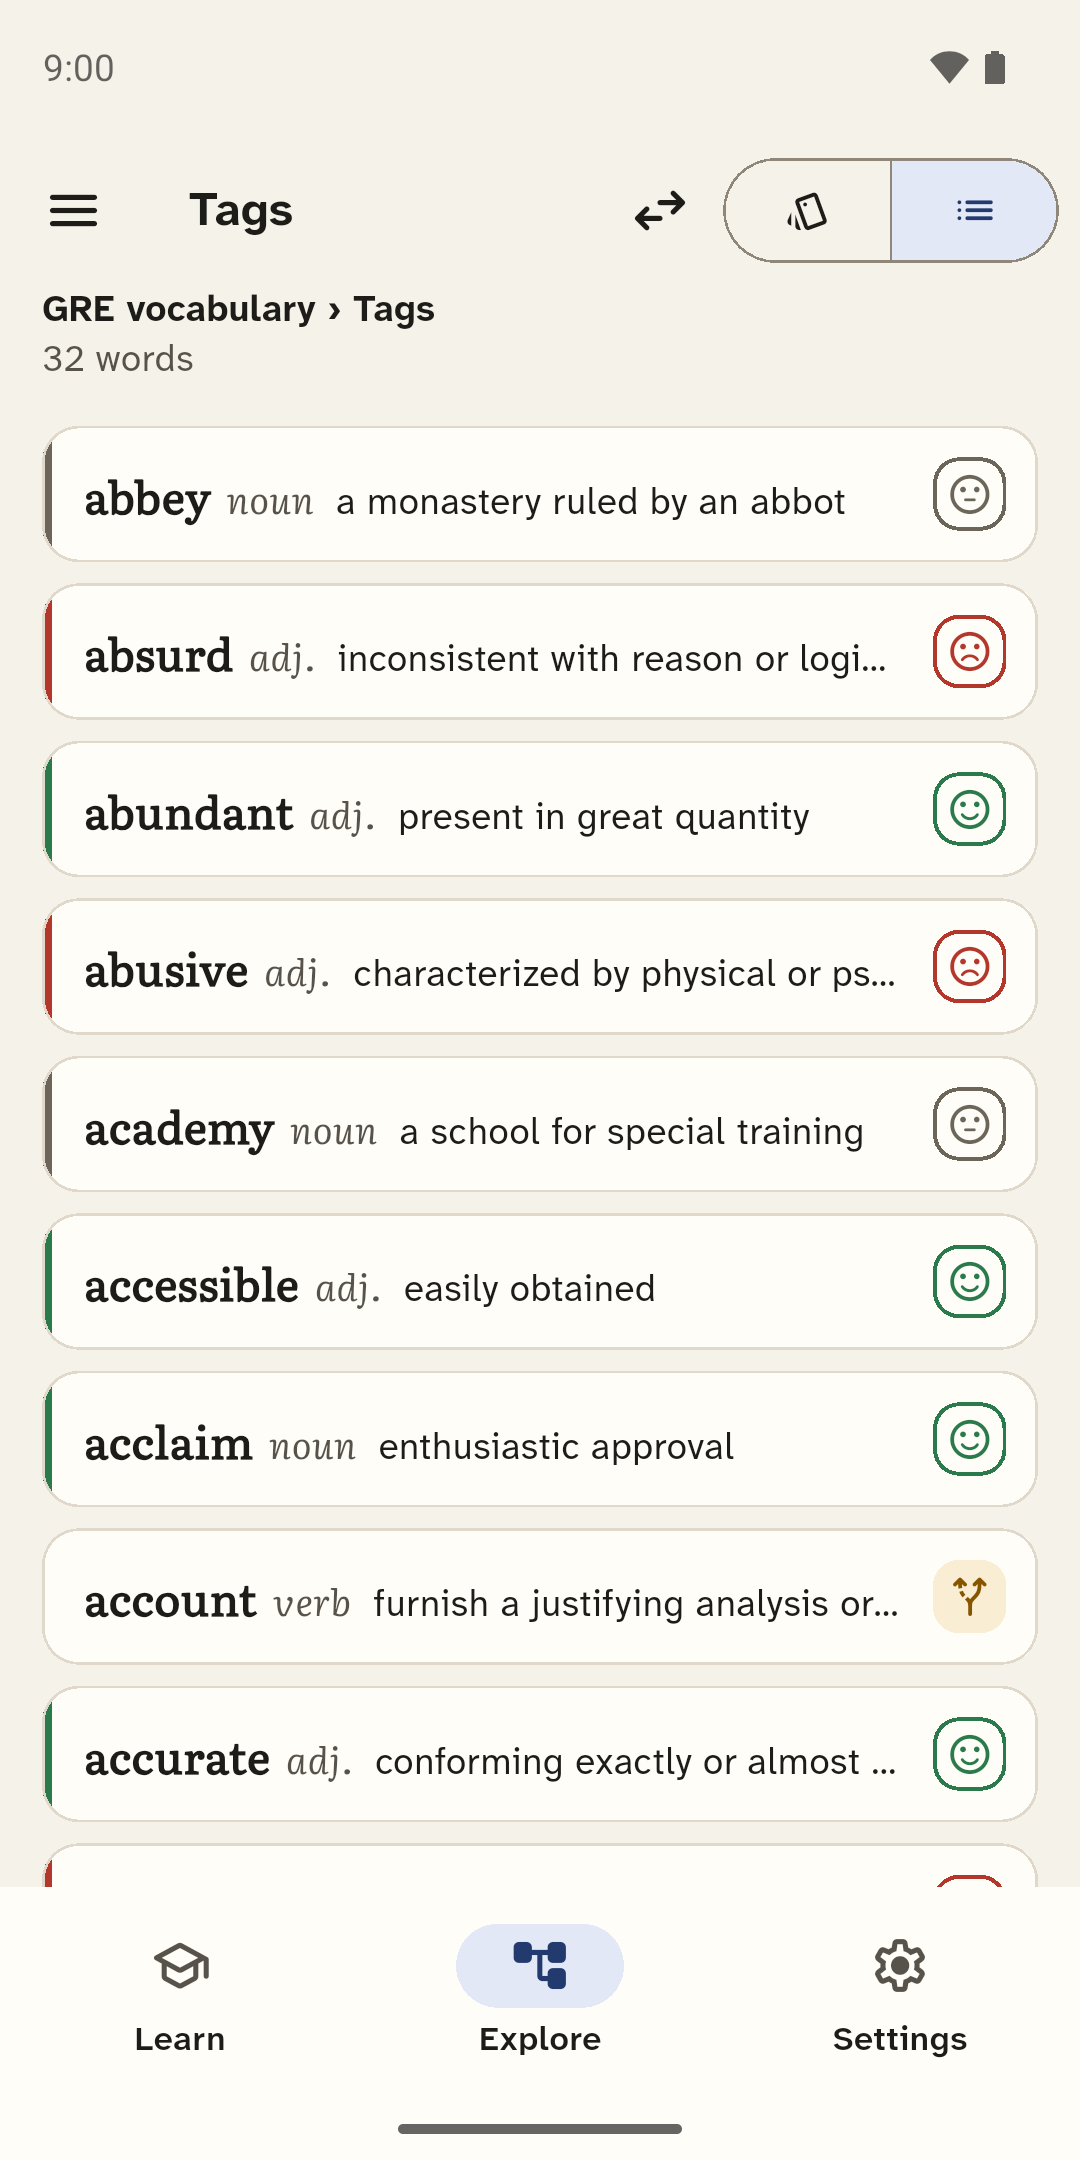
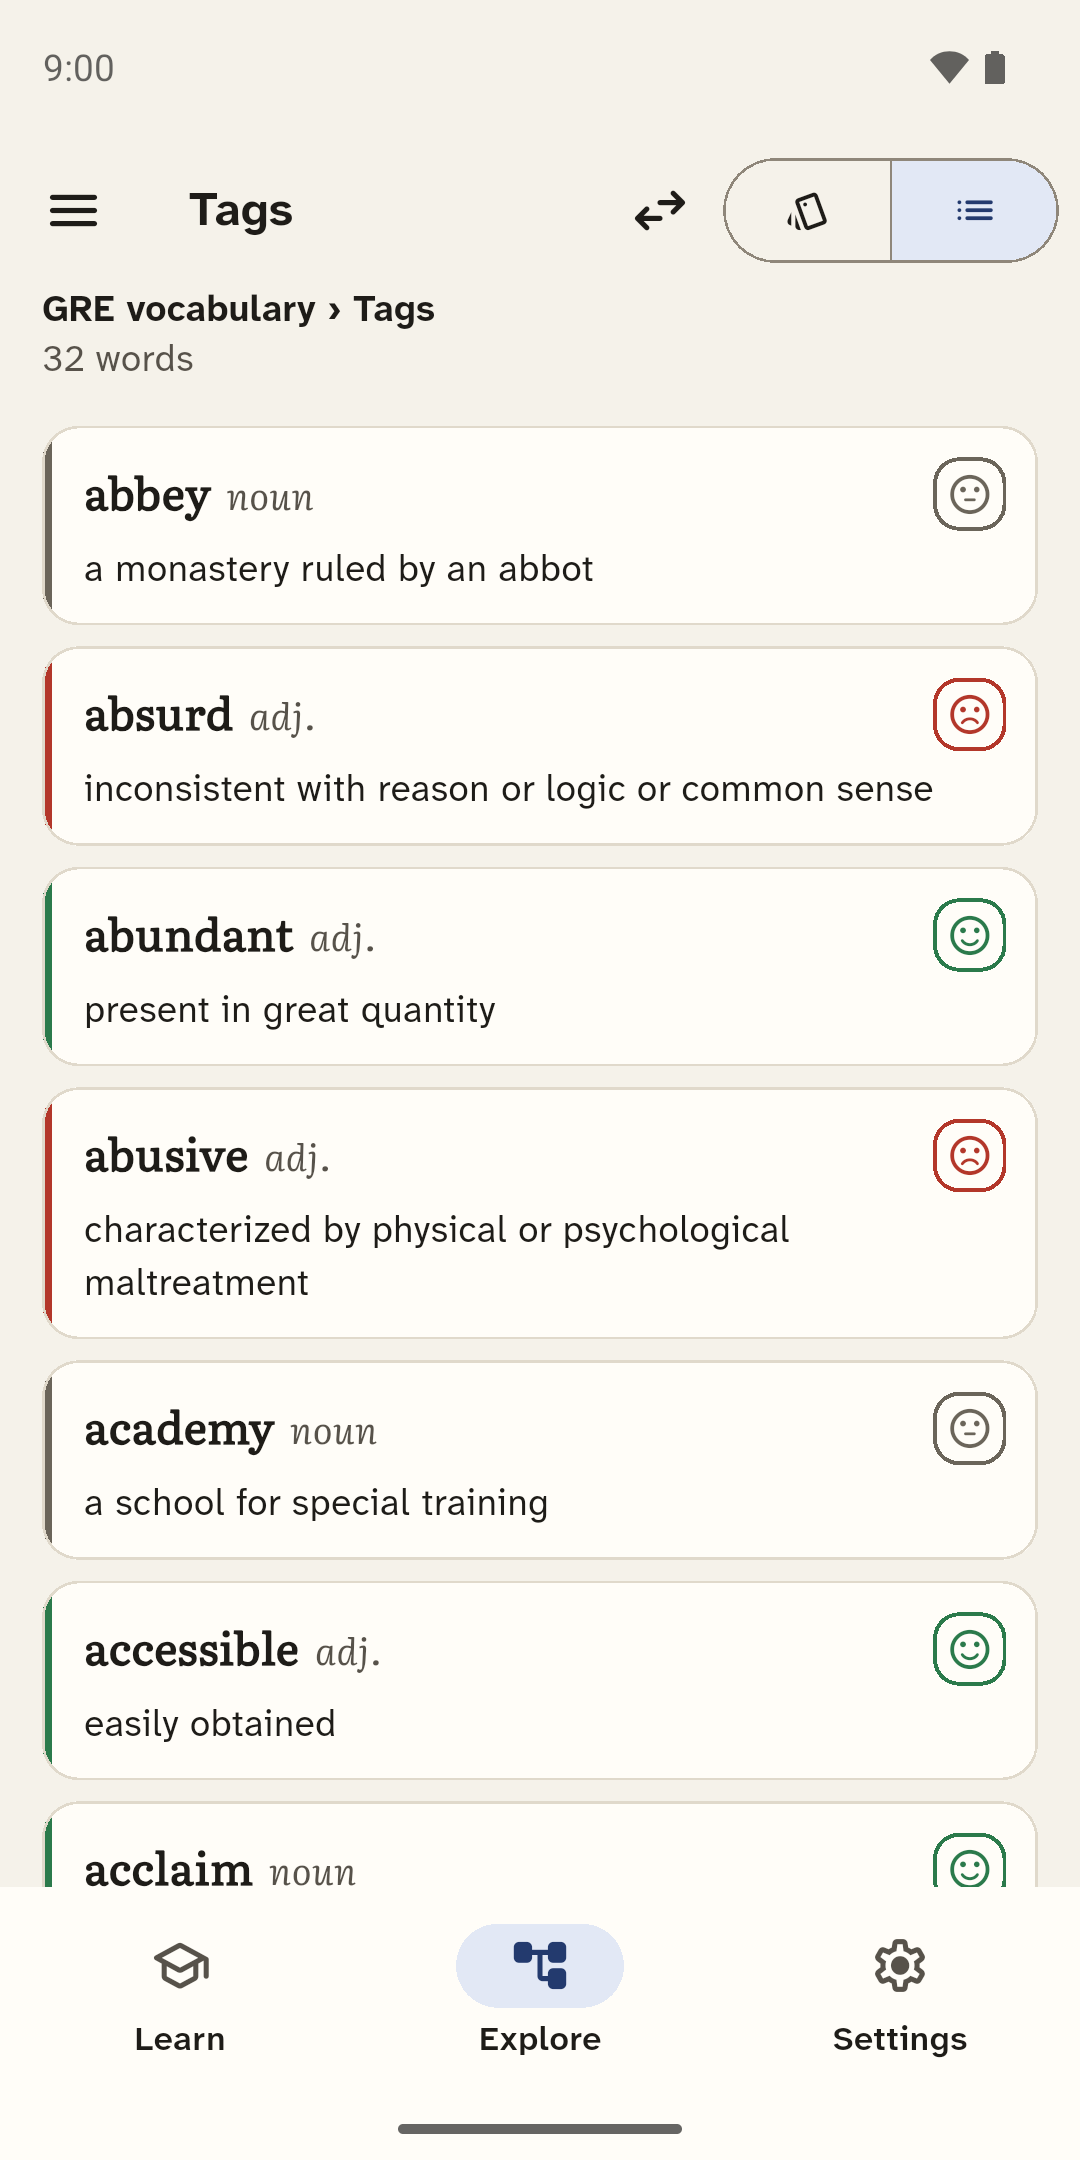
Explorer list: show the whole definition under the word (D-33)
List rows put term, part of speech and badges on the first line and the
full definition below it, wrapped at full width; rows grow to fit and are
one screen-reader item. Test D-33 covers it; store screenshot 5 retaken.

Changed region(s): [[0.0306, 0.2171, 0.9778, 0.8995], [0.7028, 0.2171, 0.7639, 0.2481]]

diff --git a/lib/ui/explore/word_list_view.dart b/lib/ui/explore/word_list_view.dart
@@ -9,9 +9,10 @@ import '../theme/wp_colors.dart';
 import '../theme/wp_text.dart';
 import '../theme/wp_tokens.dart';
 
-/// List mode of the explorer: `term · pos · definition (1 line)` with the tag
-/// visuals of a list row (4 px tone edge, small badges, dashed outline inset
-/// 4 px). Tapping a row opens it in card mode.
+/// List mode of the explorer: term · pos with the badges on the first line,
+/// the whole definition below it (never cut, D-33), and the tag visuals of a
+/// list row (4 px tone edge, small badges, dashed outline inset 4 px). Rows
+/// grow with the definition. Tapping a row opens it in card mode.
 class WordListView extends StatelessWidget {
   const WordListView({super.key, required this.words, required this.onOpen});
 
@@ -45,83 +46,96 @@ class _WordRow extends StatelessWidget {
     final pos = posLabel(word.pos, word.posRaw);
     final radius = BorderRadius.circular(WpRadius.packTile);
 
-    return Material(
-      color: theme.colorScheme.surface,
-      shape: RoundedRectangleBorder(
-        borderRadius: radius,
-        side: BorderSide(color: theme.colorScheme.outlineVariant),
-      ),
-      clipBehavior: Clip.antiAlias,
-      child: CustomPaint(
-        foregroundPainter: word.counterIntuitive
-            ? DashedBorderPainter(
-                color: wp.counterOutline,
-                radius: WpRadius.packTile - 4,
-                inset: 4,
-              )
-            : null,
-        child: InkWell(
-          onTap: onTap,
-          child: Stack(
-            children: [
-              ConstrainedBox(
-                constraints: const BoxConstraints(minHeight: WpSize.minTarget),
-                child: Padding(
-                  padding: const EdgeInsets.fromLTRB(
-                    WpSpace.lg,
-                    WpSpace.md,
-                    WpSpace.md,
-                    WpSpace.md,
+    // One screen-reader item per row: term, POS, definition, tags.
+    return MergeSemantics(
+      child: Material(
+        color: theme.colorScheme.surface,
+        shape: RoundedRectangleBorder(
+          borderRadius: radius,
+          side: BorderSide(color: theme.colorScheme.outlineVariant),
+        ),
+        clipBehavior: Clip.antiAlias,
+        child: CustomPaint(
+          foregroundPainter: word.counterIntuitive
+              ? DashedBorderPainter(
+                  color: wp.counterOutline,
+                  radius: WpRadius.packTile - 4,
+                  inset: 4,
+                )
+              : null,
+          child: InkWell(
+            onTap: onTap,
+            child: Stack(
+              children: [
+                ConstrainedBox(
+                  constraints: const BoxConstraints(
+                    minHeight: WpSize.minTarget,
                   ),
-                  child: Row(
-                    children: [
-                      Expanded(
-                        child: Text.rich(
-                          TextSpan(
-                            children: [
-                              TextSpan(
-                                text: word.term,
-                                style: text.cardAnswer.copyWith(
-                                  fontSize: 17,
-                                  fontWeight: FontWeight.w600,
-                                ),
-                              ),
-                              if (pos != null)
+                  child: Padding(
+                    padding: const EdgeInsets.fromLTRB(
+                      WpSpace.lg,
+                      WpSpace.md,
+                      WpSpace.md,
+                      WpSpace.md,
+                    ),
+                    child: Column(
+                      crossAxisAlignment: CrossAxisAlignment.stretch,
+                      children: [
+                        Row(
+                          crossAxisAlignment: CrossAxisAlignment.start,
+                          children: [
+                            Expanded(
+                              child: Text.rich(
                                 TextSpan(
-                                  text: '  $pos',
-                                  style: text.posChip.copyWith(
-                                    color: theme.colorScheme.onSurfaceVariant,
-                                  ),
-                                  semanticsLabel:
-                                      ' ${posFullName(word.pos, word.posRaw)}',
+                                  children: [
+                                    TextSpan(
+                                      text: word.term,
+                                      style: text.cardAnswer.copyWith(
+                                        fontSize: 17,
+                                        fontWeight: FontWeight.w600,
+                                      ),
+                                    ),
+                                    if (pos != null)
+                                      TextSpan(
+                                        text: '  $pos',
+                                        style: text.posChip.copyWith(
+                                          color: theme
+                                              .colorScheme
+                                              .onSurfaceVariant,
+                                        ),
+                                        semanticsLabel:
+                                            ' ${posFullName(word.pos, word.posRaw)}',
+                                      ),
+                                  ],
                                 ),
-                              TextSpan(
-                                text: '  ${word.definition}',
-                                style: theme.textTheme.bodyMedium,
                               ),
+                            ),
+                            if (TagBadges.hasAny(word)) ...[
+                              const SizedBox(width: WpSpace.sm),
+                              TagBadges(word: word, small: true),
                             ],
-                          ),
-                          maxLines: 1,
-                          overflow: TextOverflow.ellipsis,
+                          ],
                         ),
-                      ),
-                      if (TagBadges.hasAny(word)) ...[
-                        const SizedBox(width: WpSpace.sm),
-                        TagBadges(word: word, small: true),
+                        const SizedBox(height: WpSpace.xs),
+                        Text(
+                          word.definition,
+                          key: ValueKey('definition-${word.id}'),
+                          style: theme.textTheme.bodyMedium,
+                        ),
                       ],
-                    ],
+                    ),
                   ),
                 ),
-              ),
-              if (tone != null)
-                Positioned(
-                  left: 0,
-                  top: 0,
-                  bottom: 0,
-                  width: WpSize.toneEdgeRow,
-                  child: ColoredBox(color: TagStyle.toneColor(wp, tone)),
-                ),
-            ],
+                if (tone != null)
+                  Positioned(
+                    left: 0,
+                    top: 0,
+                    bottom: 0,
+                    width: WpSize.toneEdgeRow,
+                    child: ColoredBox(color: TagStyle.toneColor(wp, tone)),
+                  ),
+              ],
+            ),
           ),
         ),
       ),

diff --git a/test/widgets/explorer_test.dart b/test/widgets/explorer_test.dart
@@ -1,5 +1,6 @@
 import 'package:drift/drift.dart' show Value;
 import 'package:flutter/material.dart';
+import 'package:flutter/rendering.dart';
 import 'package:flutter/services.dart';
 import 'package:flutter_test/flutter_test.dart';
 import 'package:wordpack/data/db/database.dart';
@@ -205,6 +206,57 @@ void main() {
       },
       uiStateDelay: const Duration(milliseconds: 500),
     );
+
+    testApp('D-33 list rows show the whole definition under the word', (
+      tester,
+      app,
+    ) async {
+      await setUpList(tester, app);
+      await openTree(tester);
+      await expand(tester, 'sample-columns');
+      await tapText(tester, 'Uncategorised');
+      await tester.tap(find.byTooltip('List'));
+      await tester.pumpAndSettle();
+
+      final word = (await (app.db.select(
+        app.db.words,
+      )..where((w) => w.term.equals('accurate'))).get()).single;
+      final definition = find.byKey(ValueKey('definition-${word.id}'));
+      await tester.scrollUntilVisible(
+        definition,
+        200,
+        scrollable: find.byType(Scrollable).last,
+      );
+      await tester.pumpAndSettle();
+
+      // Not cut: wraps over several lines, below the term.
+      final paragraph = tester.renderObject<RenderParagraph>(definition);
+      expect(paragraph.didExceedMaxLines, isFalse);
+      expect(
+        tester.widget<Text>(definition).data,
+        word.definition,
+        reason: 'the full text, no ellipsis',
+      );
+      final lineHeight = paragraph.getFullHeightForCaret(
+        const TextPosition(offset: 0),
+      );
+      expect(paragraph.size.height, greaterThan(lineHeight * 1.5));
+      expect(
+        tester.getTopLeft(definition).dy,
+        greaterThan(
+          tester.getBottomLeft(find.textContaining('accurate').first).dy - 1,
+        ),
+      );
+
+      // One screen-reader item per row.
+      final handle = tester.ensureSemantics();
+      await tester.pump();
+      expect(
+        tester.getSemantics(definition).label,
+        allOf(contains('accurate'), contains(word.definition)),
+      );
+      handle.dispose();
+    });
 
     testApp('search finds words by term or definition', (tester, app) async {
       await setUpList(tester, app);

diff --git a/docs/DECISIONS.md b/docs/DECISIONS.md
@@ -36,5 +36,6 @@ All decisions were confirmed by the product owner unless marked *Assumed*.
 | D-30 | Settings and backup details | *Assumed:* the pack size is chosen with −/+ and a slider (5–100), then a preview dialog lists each wordlist's pack counts before rebuilding. Renaming a category to a name that exists at the same level is refused with a hint to merge; merging categories merges their subcategories by name. Restoring a backup resets the tree's expansion and selection. Backups store times as ISO-8601 UTC. The app icon is drawn from the design canvas (`tool/render_icon_test.dart`) and generated with `flutter_launcher_icons`. Pack tiles grow with the text size. |
 | D-31 | Release identity and signing | Application ID / bundle ID **`io.github.gauravpwagh.wordpack`** on every platform (permanent once published on Play). Android release builds are signed with an upload key whose credentials live in `android/key.properties` (git-ignored, template `android/key.properties.example`); the keystore is kept outside the repository. Play App Signing holds the app signing key. Without `key.properties`, release builds fall back to the debug key for local use only. |
 | D-32 | Tagging while learning | Product owner, 2026-09-26: **tone and traits** (Positive / Negative / Neutral, Counter-intuitive, Multiple meanings) can be set on **any word** — while learning, reviewing or in the explorer, whatever its pack's status; keys 1–5 work everywhere. Tagging never counts as a peek. **Categories** stay learned-only (D-9): the category row and the C key appear only in Review and for explorer words of Learned packs. |
+| D-33 | Explorer list rows | Product owner, 2026-09-26: list rows show the **full definition**, never truncated. Layout: term + part of speech + tag badges on the first line, the definition wrapped below at full width; rows grow to fit. No compact/expanded toggle. List mode stays word-first whatever the card side setting. |
 
 There are no open questions.

diff --git a/docs/UI_UX.md b/docs/UI_UX.md
@@ -93,7 +93,7 @@ No categorise button or prompt anywhere (D-9). Celebration animation is skipped 
 
 - App bar: breadcrumb (`definitions › Categories › Emotions › Anger`), count, `SegmentedButton` Card | List, which side shows first (Word / Definition).
 - Card mode: `WordCard` in *browse* variant inside a `PageView` (swipe between words); tap card or Space reveals; no peek counter; no status changes. For Learned words the quick tag buttons and category row are shown (same as review).
-- List mode: `ListView.builder` rows `term · pos chip · definition (1 line, ellipsis)` with tag visuals; tapping opens card mode at that word.
+- List mode: `ListView.builder` rows with term · pos and the badges on the first line and the **whole definition** wrapped below it — never cut; rows grow to fit (D-33). Tag visuals as on cards (§5); one screen-reader item per row. Tapping opens card mode at that word.
 - Order: source order for pack nodes; alphabetical for category, tag, uncategorised and search nodes.
 - Empty node: "No words here yet."
 
